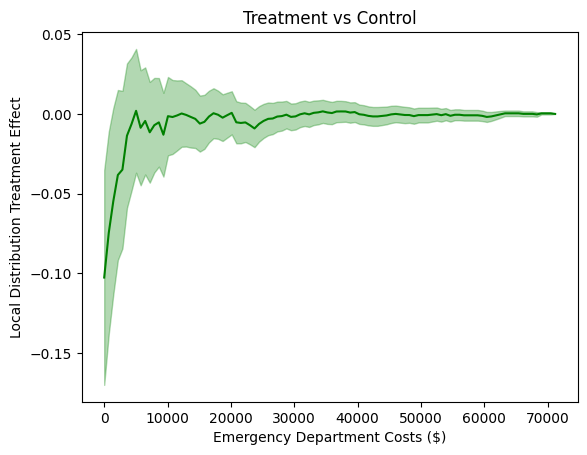
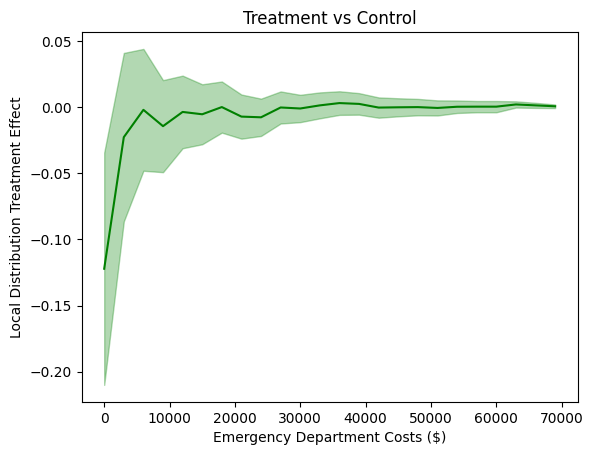
fix preprocessing

diff --git a/docs/source/tutorials/oregon.rst b/docs/source/tutorials/oregon.rst
@@ -123,7 +123,7 @@ Emergency Department Cost Analysis
     ml_local_estimator.fit(X, Z, D, Y_ED_CHARG_TOT_ED, strata)
 
     # Define evaluation points for emergency department costs
-    outcome_ed_costs_locations = np.linspace(Y_ED_CHARG_TOT_ED.min(), Y_ED_CHARG_TOT_ED.max(), 100)
+    outcome_ed_costs_locations = np.arange(Y_ED_CHARG_TOT_ED.min(), Y_ED_CHARG_TOT_ED.max(), 3000)
 
 Local Distribution Treatment Effects: Medicaid Assignment vs Control
 ~~~~~~~~~~~~~~~~~~~~~~~~~~~~~~~~~~~~~~~~~~~~~~~~~~~~~~~~~~~~~~~~~~~~
@@ -288,8 +288,6 @@ The side-by-side bar charts show probability treatment effects across different 
 
 **Policy Implications**: Understanding these distributional effects is crucial for healthcare policy. The local analysis reveals that Medicaid's impact varies across the cost distribution for those who actually enroll when assigned, which has important implications for healthcare budgeting and understanding the true effects of public health insurance programs on compliers.
 
-**Conclusion**: Using the real Oregon Health Insurance Experiment dataset with 24,000 participants, the local distributional analysis reveals nuanced patterns in how Medicaid assignment affects healthcare utilization among compliers. The analysis accounts for non-compliance and goes beyond simple average comparisons to show how treatment effects vary across the entire emergency department cost distribution, providing insights into how public health insurance impacts different segments of the population who actually enroll. This demonstrates the power of local distribution treatment effect analysis for understanding heterogeneous responses in healthcare policy interventions with non-compliance.
-
 Emergency Department Visits Analysis
 ~~~~~~~~~~~~~~~~~~~~~~~~~~~~~~~~~~~~
 
@@ -310,19 +308,12 @@ Now let's examine how Medicaid enrollment affects the distribution of emergency 
     ml_local_estimator.fit(X, Z, D, Y_NUM_VISIT_CENS_ED, strata)
 
     # Define evaluation points for emergency department visits
-    outcome_ed_visits_locations = np.linspace(Y_NUM_VISIT_CENS_ED.min(), Y_NUM_VISIT_CENS_ED.max(), 20)
+    outcome_ed_visits_locations = np.arange(Y_NUM_VISIT_CENS_ED.min(), Y_NUM_VISIT_CENS_ED.max(), 1)
 
 Distribution Treatment Effects: Visits Analysis
 ~~~~~~~~~~~~~~~~~~~~~~~~~~~~~~~~~~~~~~~~~~~~~~
 
 .. code-block:: python
-
-    # Compute LDTE: Treatment vs Control
-    ldte_ctrl, lower_ctrl, upper_ctrl = simple_local_estimator.predict_ldte(
-        target_treatment_arm=1,  # Z=1 Selected for treatment (Enrolled)
-        control_treatment_arm=0,  # Z=0 Not selected for treatment (Not enrolled)
-        locations=outcome_ed_visits_locations
-    )
 
     # LDTE: Treatment vs Control
     ldte_simple, lower_simple, upper_simple = simple_local_estimator.predict_ldte(
@@ -364,13 +355,6 @@ Probability Treatment Effects: Visits Analysis
 ~~~~~~~~~~~~~~~~~~~~~~~~~~~~~~~~~~~~~~~~~~~~~~~~~~~~~~
 
 .. code-block:: python
-
-    # Compute LPTE: Treatment vs Control
-    lpte_ctrl, lpte_lower_ctrl, lpte_upper_ctrl = simple_local_estimator.predict_lpte(
-        target_treatment_arm=1,  # Z=1 Selected for treatment (Enrolled)
-        control_treatment_arm=0,  # Z=0 Not selected for treatment (Not enrolled)
-        locations=[-1] + outcome_ed_visits_locations
-    )
 
     # Compute Local Probability Treatment Effects
     lpte_simple, lpte_lower_simple, lpte_upper_simple = simple_local_estimator.predict_lpte(
